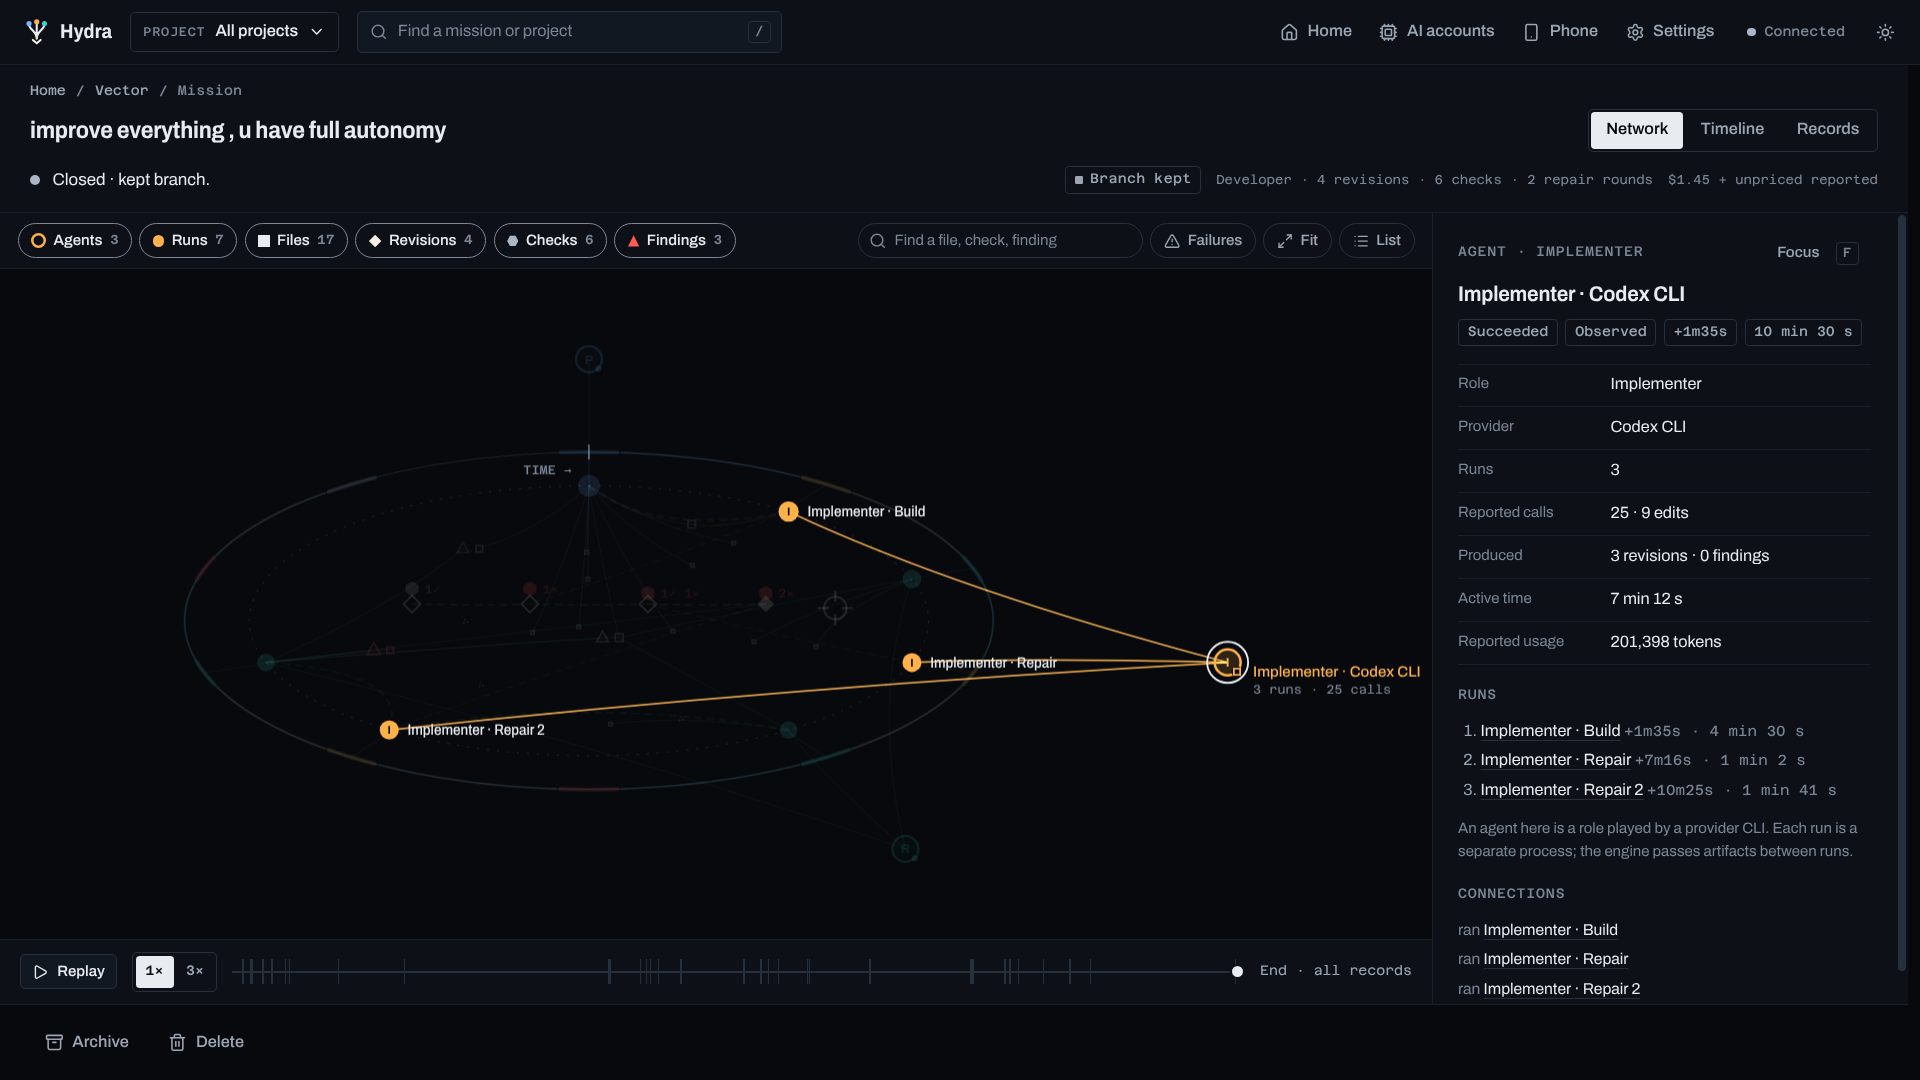
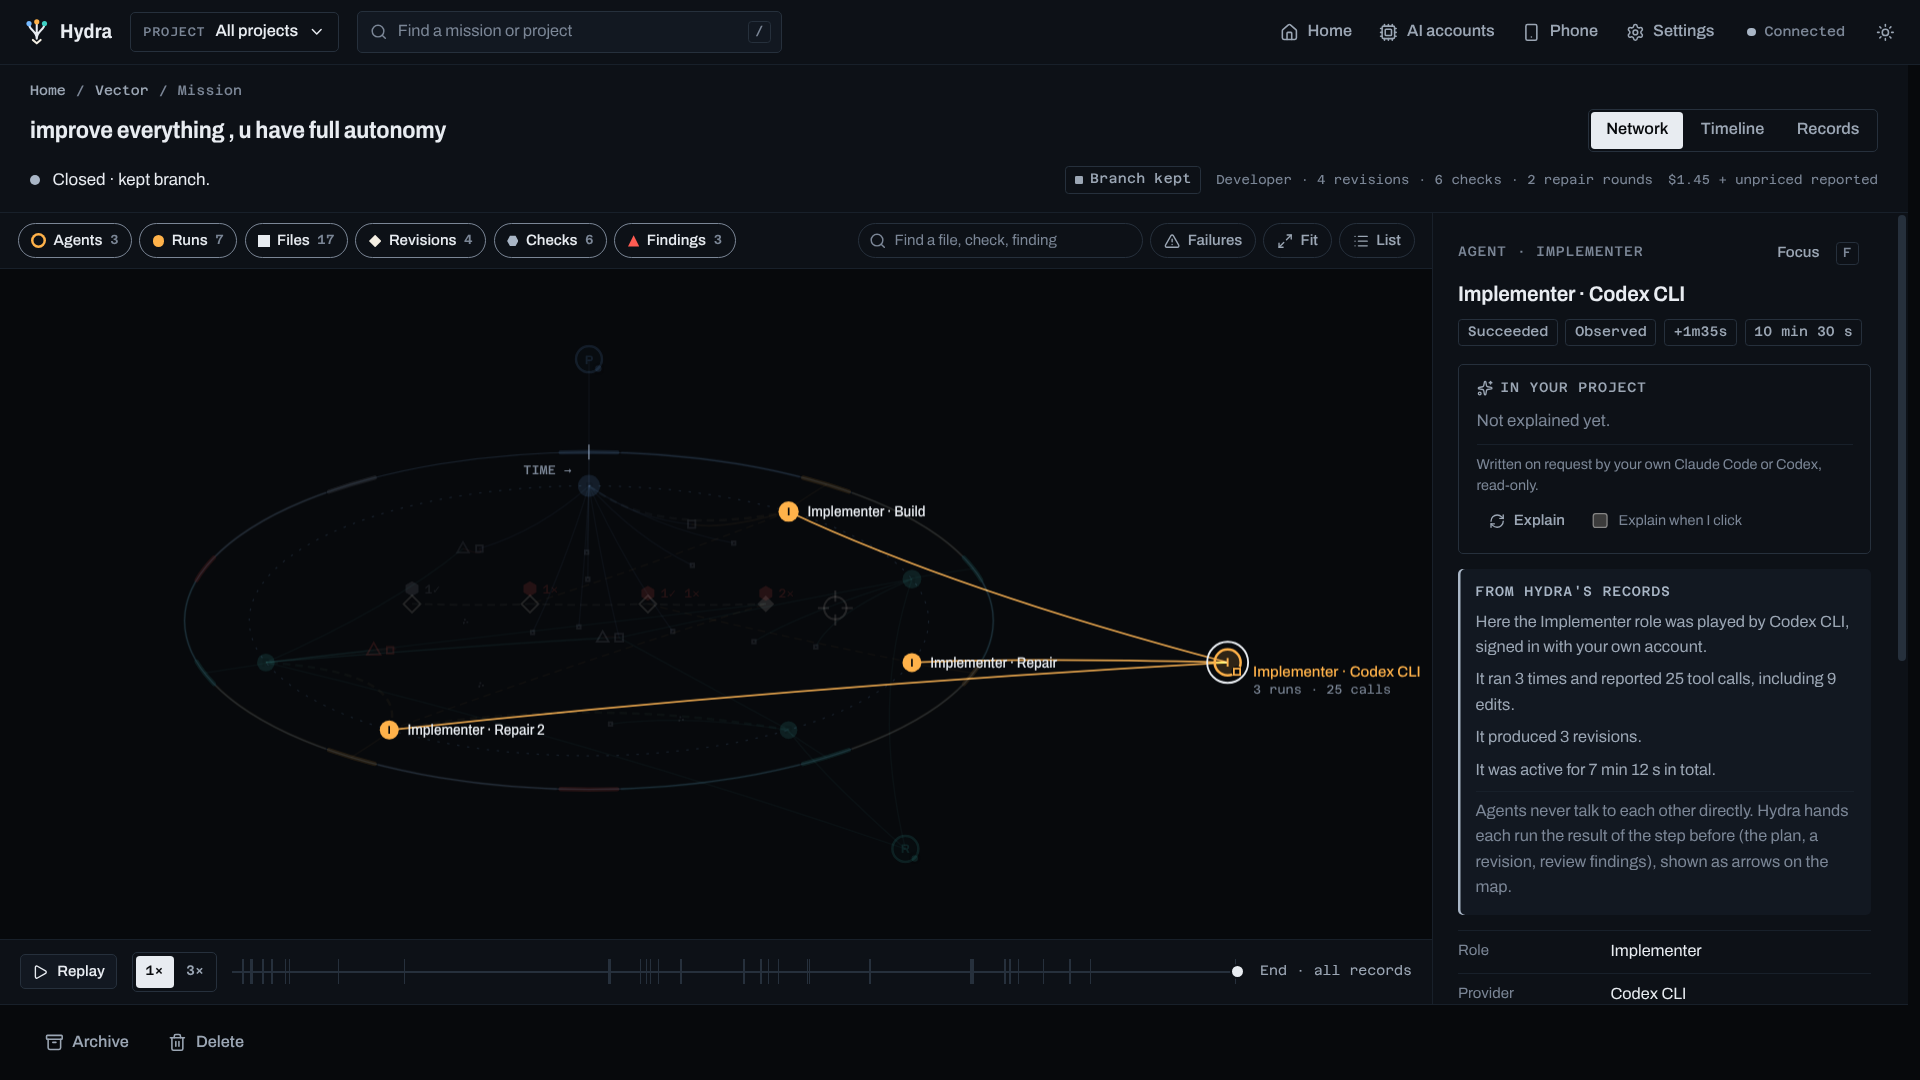
README: a tour of every screen, with explanations on click
23 screenshots from the packaged app at 1536x864 (125 %): the owner's own missions for
Home, the mission map (Night/Day), agents, revisions, checks, findings, Timeline, Records,
project pages and real AI explanations written by his Claude Code (replayed verbatim);
recorded test missions (labelled) for plan approval, blocked acceptance and ready to
accept; AI accounts, phone, settings and first run.

Claude-Session: https://claude.ai/code/session_01HtCA6ixxcgZdfA7JCuDFHS

Changed region(s): [[0.75, 0.4278, 1.0, 0.9472], [0.75, 0.3361, 0.875, 0.3972]]

diff --git a/README.md b/README.md
@@ -44,6 +44,7 @@ flowchart LR
 - **Isolated changes.** Every change runs in its own git worktree on a `hydra/*` branch. Hydra delivers a revision only after your approval. Recorded applies offer revert-based rollback, subject to branch state and conflict resolution. Project checks still run as your user, so use repositories you trust.
 - **Evidence, not claims.** Hydra runs your project's tests and builds itself (Node, Python, Go, Rust, Java, C/C++, or your own `.hydra/checks.json`). It records exit codes against the exact commit and shows before and after results. An agent saying "tests pass" is never evidence.
 - **Independent review.** A second agent (a different provider when available) reviews the diff together with the real test results. Fix rounds are bounded.
+- **Explains itself.** Click anything on a map (a file, a check, a finding, a run) and your own Claude Code or Codex explains what it is in your project and what happened to it, read-only.
 - **Budgets.** Per-task limits on cost, tokens, active time and agent runs.
 - **Your accounts, your bill.** Hydra uses *your* locally signed-in Claude Code and Codex CLIs. It never stores, proxies or ships credentials.
 - **Your data stays local.** Everything lives in a local SQLite database. Remote control from a phone on your network is end-to-end encrypted, and no cloud database is involved.
@@ -67,44 +68,136 @@ The second mission is the interesting one. The planner refused to boil the ocean
 
 The implementer delivered camera recovery, stall handling and resource cleanup. The reviewer found a real problem in the new tests. Hydra's own before/after run showed `pytest` passing on the original commit and failing on the final one. So nothing was merged. The work stayed on its branch, and the evidence for why is one click away.
 
-## Inside the app
+## A tour of the app
 
-Every mission opens on an **evidence map**, drawn only from what Hydra recorded. There is no invented agent chatter, no fake progress bars and no success states nobody observed. Anything derived from a stated rule is marked as derived.
+<sub>Unless a caption says otherwise, every screen below is the packaged desktop app at 1536×864 (125 % scaling on a 1920×1080 display) running on a read-only copy of the owner's own Hydra records: real projects, prompts, agents and output. Screens marked <b>recorded test mission</b> come from missions recorded with the real engine, Git and checks but scripted agents, to show states the owner's own missions never reached.</sub>
 
-<img src="docs/media/mission-network.png" alt="The Vector mission on Hydra's evidence map: stages around the mission clock, three agents labelled by provider, handoffs, four revisions with their check badges, and the mission briefing" width="100%" />
-
-<sub>**The mission clock.** Stages run clockwise in recorded order. Agents sit outside the clock, each one a role on a provider. Revisions run left to right inside it, each with a badge counting its checks. The briefing on the right is computed from the records: who did what, every handoff, where the work landed and what the proof says.</sub>
+### Home
 
 <table>
 <tr>
-<td width="50%"><img src="docs/media/agent-focus.png" alt="The Codex CLI implementer in focus: its three runs, 25 reported tool calls, 9 edits and 3 revisions" /></td>
-<td width="50%"><img src="docs/media/revision.png" alt="Revision ef311fa selected: commit, checks on it (two failed pytest runs), who produced it and who reviewed it" /></td>
+<td width="50%"><img src="docs/media/home-explain.png" alt="Home for the telekinisis project: describe a change, the project's mission network, and README.md selected with a plain-English explanation written by Claude Code" /></td>
+<td width="50%"><img src="docs/media/home-waiting.png" alt="Home with three missions waiting for a decision, one failed mission underway and recent results" /></td>
+</tr>
+<tr>
+<td><b>Describe a change, see the project.</b> Missions are linked through the files they touched. Click a file or a mission and Hydra says what it is, in your project (here: <code>README.md</code>, explained by the owner's own Claude Code).</td>
+<td><b>What needs you comes first.</b> Waiting decisions, missions underway and recent outcomes, each with its state. <i>Recorded test missions.</i></td>
+</tr>
+</table>
+
+### The mission map
+
+<img src="docs/media/mission-network.png" alt="The Vector mission on Hydra's evidence map: stages around the mission clock, three agents labelled by provider, handoffs, four revisions with their check badges, and the mission briefing" width="100%" />
+
+<sub><b>The mission clock.</b> Stages run clockwise in recorded order. Agents sit outside the clock, each one a role on a provider (here Claude Code plans and reviews, Codex CLI builds). Arrows are handoffs Hydra actually made: the plan, a revision, review findings, failed checks. Revisions run left to right inside, each with a badge counting its checks. The briefing on the right is computed from the records.</sub>
+
+<table>
+<tr>
+<td width="50%"><img src="docs/media/agent-focus.png" alt="The Codex CLI implementer in focus: its three runs, reported tool calls and edits" /></td>
+<td width="50%"><img src="docs/media/revision.png" alt="Revision ef311fa selected: the commit, the checks Hydra ran on it, who produced it and who reviewed it" /></td>
 </tr>
 <tr>
 <td><b>Focus on an agent.</b> Everything else dims. Its runs, reported tool calls, edits, revisions and token usage come straight from the run records.</td>
 <td><b>Follow a revision.</b> The exact commit, the checks Hydra ran on it, the run that produced it and the review that read it.</td>
 </tr>
 <tr>
-<td><img src="docs/media/timeline.png" alt="Timeline lens: you, the agents, edits by file and the checks Hydra ran, in lanes over 16 minutes of recorded time" /></td>
-<td><img src="docs/media/records.png" alt="Records lens: the plan written by the planner and the before/after check comparison showing the pytest regression" /></td>
-</tr>
-<tr>
-<td><b>Timeline.</b> The same records in lanes: you, each agent, edits by file and every check Hydra ran, across the mission's 16 recorded minutes.</td>
-<td><b>Records.</b> The full plan, the before/after comparison (here: <code>pytest</code> pass → fail, flagged as a regression), every check and the event log.</td>
-</tr>
-<tr>
-<td><img src="docs/media/mission-network-day.png" alt="The same mission in the Day theme" /></td>
 <td><img src="docs/media/second-mission.png" alt="The telekinisis mission: plan, build, review, repair, a second review and passing checks" /></td>
+<td><img src="docs/media/mission-network-day.png" alt="The Vector mission in the Day theme" /></td>
 </tr>
 <tr>
+<td><b>Every mission gets its own map.</b> The telekinisis run: plan, build, review, one repair round, a second review, then checks that went from failing to passing.</td>
 <td><b>Night and Day.</b> Two full themes, designed together. Red always means something stopped.</td>
-<td><b>Another mission.</b> The telekinisis run: plan, build, review, one repair round, a second review, then checks that went from failing to passing.</td>
 </tr>
 </table>
 
-**Replay** (the animation at the top) steps through recorded time. Later records are hidden and outcomes never leak backwards. Each newly recorded handoff or result lights up once, and decisions are disabled until you return to the present. With reduced motion on, it steps from moment to moment without animation.
+**Replay** (the animation at the top) steps through recorded time. Later records are hidden and outcomes never leak backwards. Each newly recorded handoff or result lights up once, and decisions are disabled until you return to the present.
 
-<sub>Screenshots and animation: the packaged desktop app at 1536×864 (125 % scaling on a 1920×1080 display), on a read-only copy of the owner's own Hydra records. Project names, prompts and agent output are real.</sub>
+### Click anything: it explains itself
+
+Every dot on every map has two explanations. **In your project** is written on the spot by *your own* Claude Code or Codex, reading that project's files and the record, so it can say what a file is for or why a check failed. It runs read-only, is cached per dot, is labelled as AI-written, and can be switched off. **From Hydra's records** states the recorded facts in plain sentences, with no AI involved.
+
+<table>
+<tr>
+<td width="50%"><img src="docs/media/check-explained.png" alt="A failed pytest check explained: it ran about 170 tests, one failed (test_move_only_keeps_size), the window landed one pixel off, likely from rounding of DPI-scaled border insets" /></td>
+<td width="50%"><img src="docs/media/file-in-mission.png" alt="manipulation.py explained in the telekinisis mission: the interaction core, the Manipulator class, and what the mission did to it" /></td>
+</tr>
+<tr>
+<td><b>Why did this check fail?</b> One test out of about 170 failed: the window landed at x=297 instead of 296. The explanation traces it to rounding of DPI-scaled border insets in <code>set_frame</code> and suggests re-running that test on unmodified <code>main</code>.</td>
+<td><b>What is this file?</b> <code>manipulation.py</code> "is the interaction core of telekinisis": the <code>Manipulator</code> class, pinch-grab, two-hand scale and rotate, throwing.</td>
+</tr>
+<tr>
+<td><img src="docs/media/finding.png" alt="A major review finding with Hydra's record-based explanation and the button to ask for one in your project" /></td>
+<td><img src="docs/media/project-page.png" alt="The telekinisis project page with manipulation.py selected on the project map and explained" /></td>
+</tr>
+<tr>
+<td><b>Review findings</b> keep the reviewer's own words, with the severity explained. Automatic explanations were switched off here, so the panel offers the <b>Explain</b> button instead.</td>
+<td><b>Project pages</b> show a project's history and mission network, with the same explanations on click.</td>
+</tr>
+</table>
+
+<sub>The explanations shown were written by the owner's Claude Code on his own PC and are replayed verbatim in these screenshots.</sub>
+
+### Timeline and records
+
+<table>
+<tr>
+<td width="50%"><img src="docs/media/timeline.png" alt="Timeline lens: you, the agents, edits by file and the checks Hydra ran, in lanes over 16 minutes of recorded time" /></td>
+<td width="50%"><img src="docs/media/timeline-day.png" alt="The same timeline in the Day theme" /></td>
+</tr>
+<tr>
+<td colspan="2"><b>Timeline.</b> The same records in lanes: you, each agent, edits by file and every check Hydra ran, across the mission's 16 recorded minutes.</td>
+</tr>
+<tr>
+<td><img src="docs/media/records-summary.png" alt="Records summary: the planner's plan, the before/after comparison showing the pytest regression, and the request" /></td>
+<td><img src="docs/media/records-checks.png" alt="Records checks: every pytest run with its exit code, commit and duration, grouped by phase" /></td>
+</tr>
+<tr>
+<td><b>Records → Summary.</b> The full plan and the before/after comparison: <code>pytest</code> pass → fail, flagged as a regression.</td>
+<td><b>Records → Checks.</b> Every command Hydra ran, with exit code, exact commit and duration, grouped by phase.</td>
+</tr>
+</table>
+
+### Your decision
+
+<table>
+<tr>
+<td width="50%"><img src="docs/media/plan-approval.png" alt="A mission waiting for plan approval: nothing has been written yet" /></td>
+<td width="50%"><img src="docs/media/acceptance-blocked.png" alt="Checks failed and acceptance is blocked, with the reason and the options left" /></td>
+</tr>
+<tr>
+<td><b>Approve the plan first</b> (Safe mode, or any change Hydra rates high risk). Agents have only read the code so far. <i>Recorded test mission.</i></td>
+<td><b>Acceptance blocked.</b> A required check failed, so Hydra refuses to deliver and says why. You can request changes, keep the branch or reject. <i>Recorded test mission.</i></td>
+</tr>
+<tr>
+<td><img src="docs/media/ready-to-accept.png" alt="Checks and review cover the latest revision; Accept fast-forwards the branch" /></td>
+<td><img src="docs/media/records-log.png" alt="Records log: stage history with results, start times and durations" /></td>
+</tr>
+<tr>
+<td><b>Ready to accept.</b> Checks and review cover this exact revision. Accept fast-forwards your branch to it; Hydra delivers nothing without that click. <i>Recorded test mission.</i></td>
+<td><b>Whatever you decide, the record stays.</b> Records → Log keeps the stage history of every mission permanently.</td>
+</tr>
+</table>
+
+### Accounts, phone and settings
+
+<table>
+<tr>
+<td width="50%"><img src="docs/media/ai-accounts.png" alt="AI accounts: Claude Code ready, Codex CLI not installed with install and sign-in steps" /></td>
+<td width="50%"><img src="docs/media/settings.png" alt="Settings: theme, motion, saved drafts and autonomy modes" /></td>
+</tr>
+<tr>
+<td><b>AI accounts.</b> Hydra only asks each CLI whether it is signed in; it never reads, stores or sends keys or tokens. <i>Shown on a machine with only Claude Code installed.</i></td>
+<td><b>Settings.</b> Night or Day, motion level, saved drafts, and the three autonomy modes. Every mode still requires your final approval.</td>
+</tr>
+<tr>
+<td><img src="docs/media/phone.png" alt="Phone access: off by default, time-limited, pairing with explicit permissions" /></td>
+<td><img src="docs/media/first-run.png" alt="First run: sign in to an agent, add a project, start in Safe mode" /></td>
+</tr>
+<tr>
+<td><b>Phone access</b> is off by default, switches itself off after a set time, and pairs each phone with explicit permissions. Preview: trusted networks only.</td>
+<td><b>First run.</b> Sign in to Claude Code or Codex, add a Git project, start in Safe mode.</td>
+</tr>
+</table>
 
 ## How it is built
 
